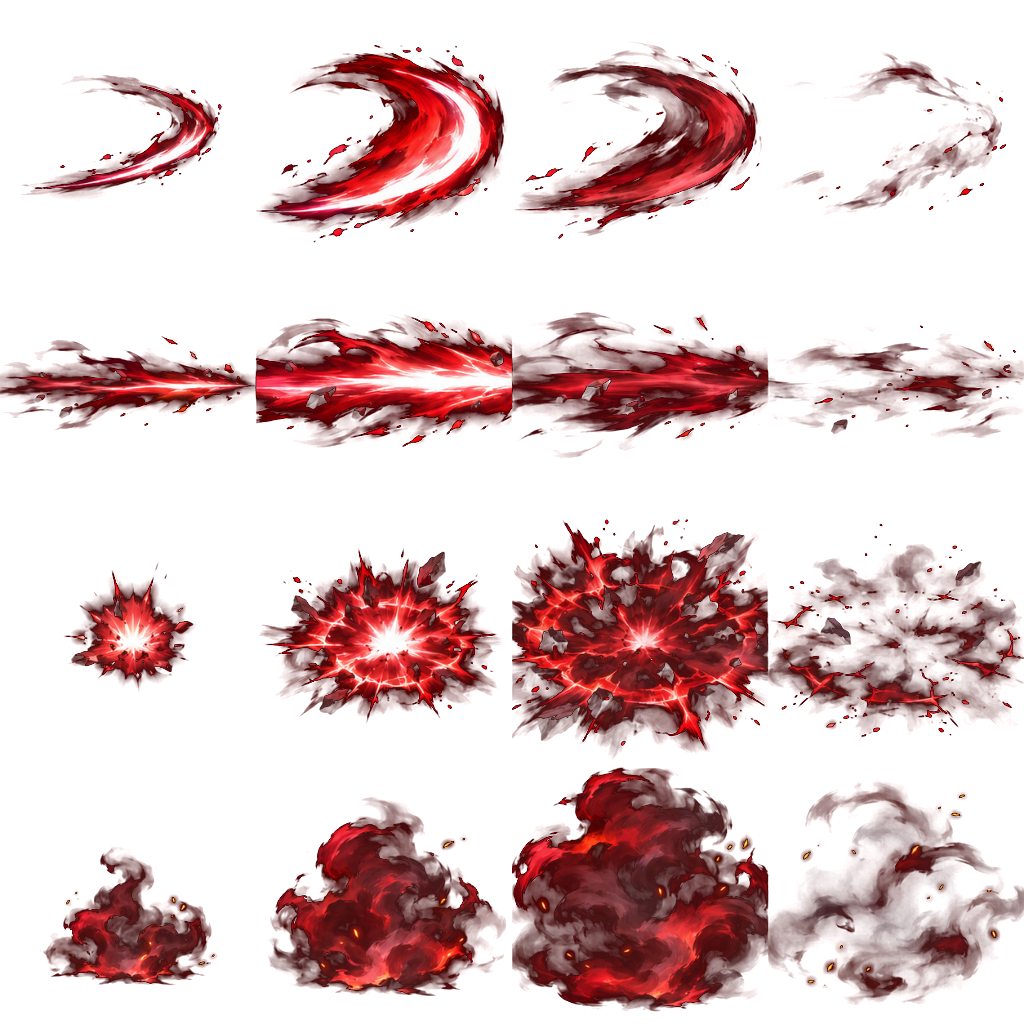
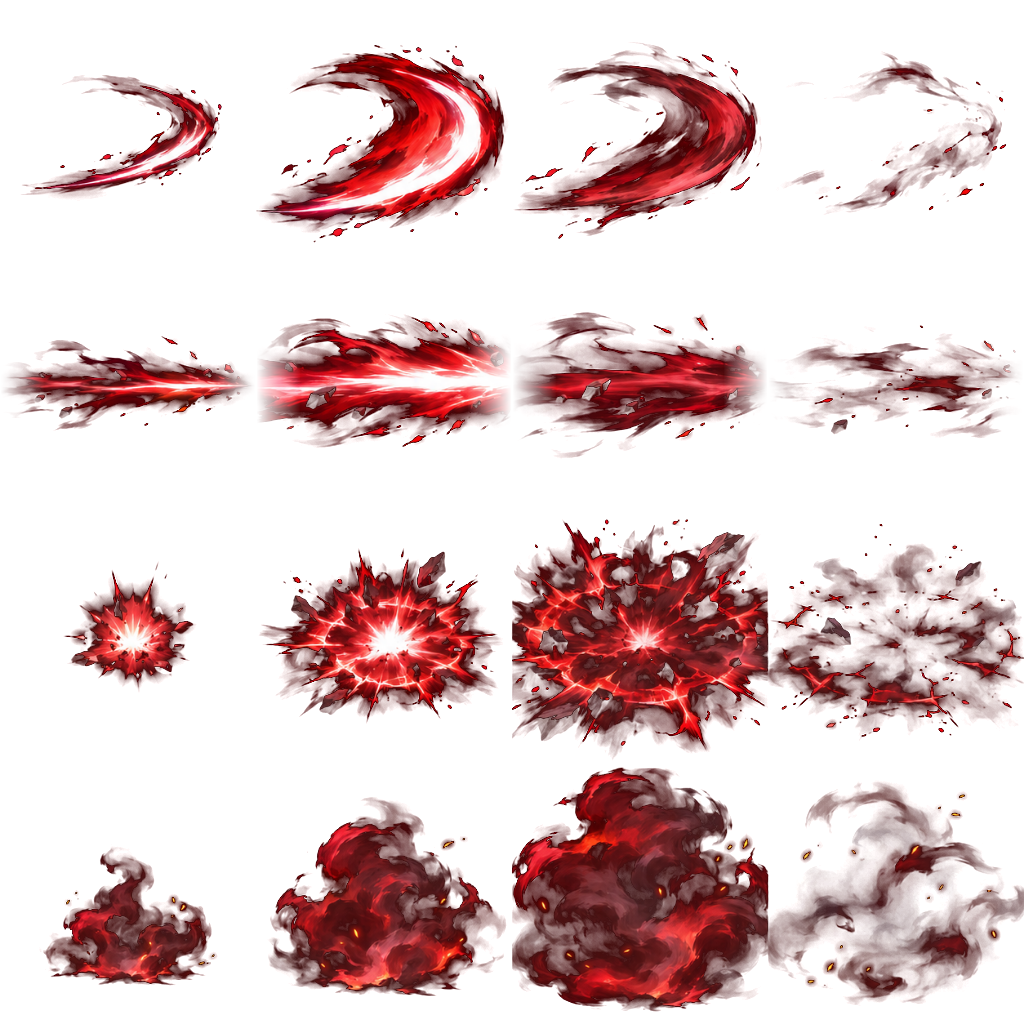
首领主题特效组（第三批：尘土冲锋，颜良 / 文丑 / 曹纯 / 夏侯渊 / 张郃 / 孙桓 / 张任 / 朱然 / 庞德）；冲击带图两端渐隐（FADE_ROWS），三组图重新去底

diff --git a/src/systems/BossThemeFx.ts b/src/systems/BossThemeFx.ts
@@ -13,7 +13,7 @@ export const BOSS_THEME_FILES: Readonly<Record<BossTheme, string>> = {
   blood: 'assets/boss-fx/themes/blood.png', yellow: 'assets/boss-fx/themes/yellow.png', dust: 'assets/boss-fx/themes/dust.png', quake: 'assets/boss-fx/themes/quake.png',
 };
 /** 已出图的主题（图到一组登记一组，避免请求不存在的文件）。 */
-export const BOSS_THEME_READY: readonly BossTheme[] = ['blood', 'yellow'];
+export const BOSS_THEME_READY: readonly BossTheme[] = ['blood', 'yellow', 'dust'];
 /** 首领 → 主题。 */
 export const BOSS_THEME_OF: Readonly<Record<string, BossTheme>> = {
   zhangliang: 'yellow', zhangbao: 'yellow',
